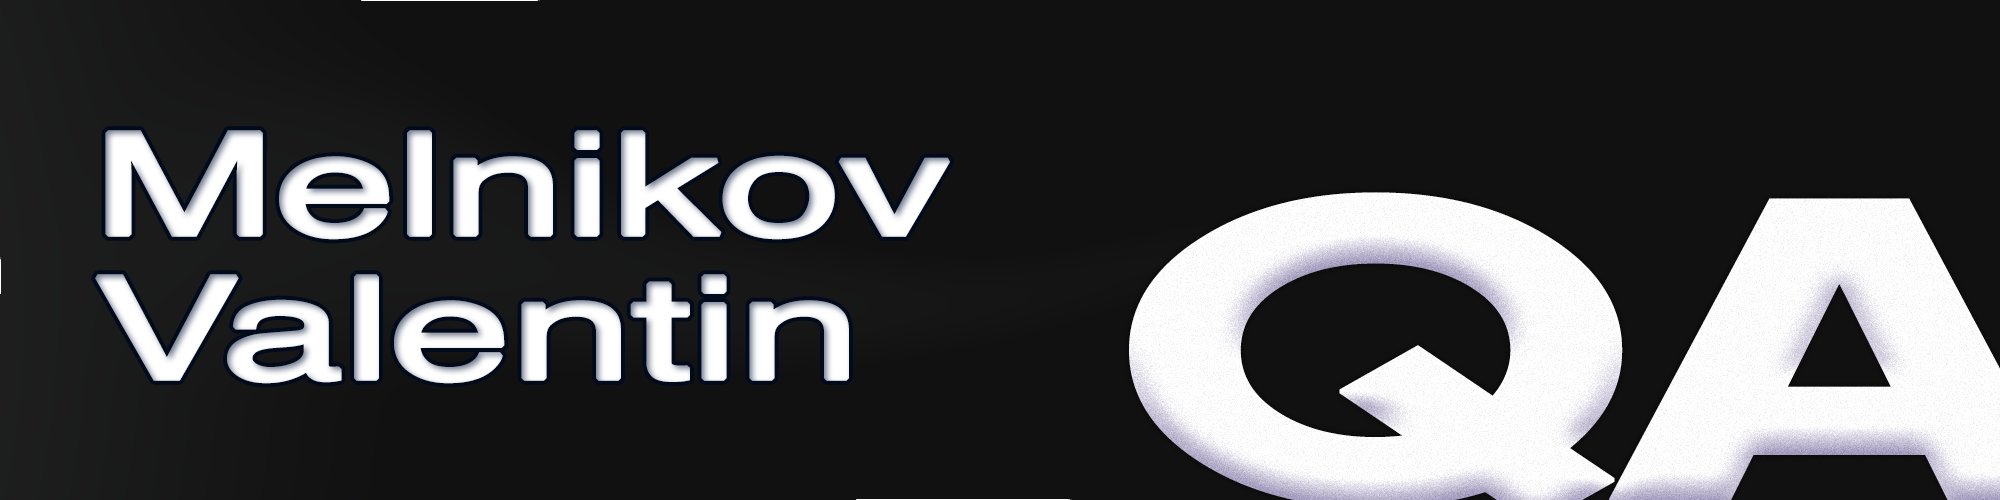
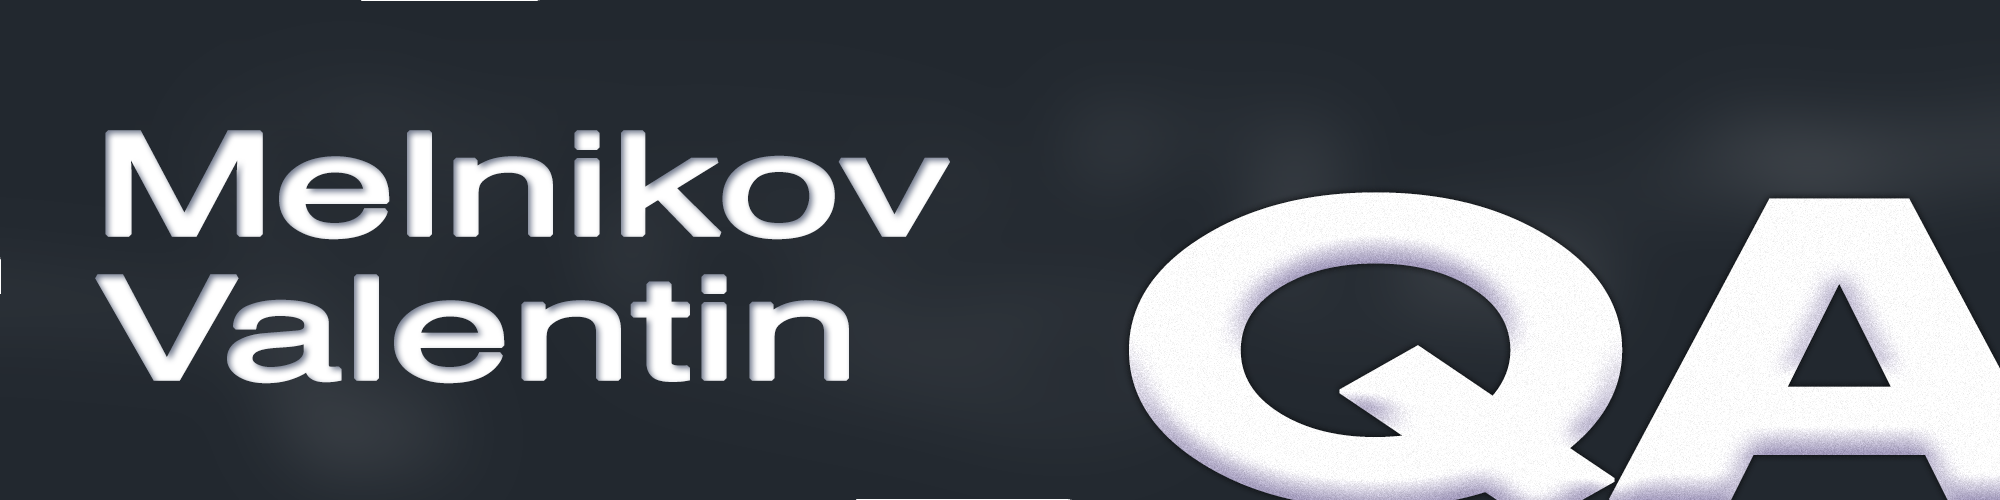
Update picture and add information in bio

diff --git a/README.md b/README.md
@@ -1,6 +1,7 @@
 ![Header](https://github.com/Forzzaep/forzzaep/blob/main/assets/header.png)
 
-## Я начинающий QA Engineer. Закончил курсы Яндекс.Практикум и имею опыт работы 1.5 года manual тестировщиком.
+## Я Валентин, начианющий QA Engineer.
+### Закончил курсы от Яндекс.Практикума и имею опыт работы в роли ,anual тестировщика 1.5 года.
 
 Works
 
